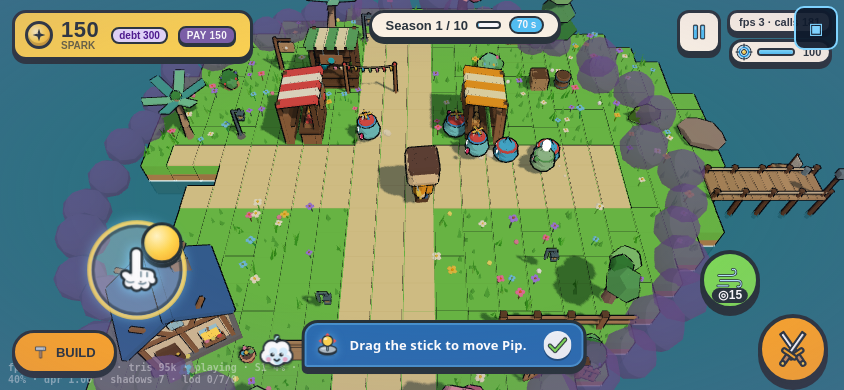
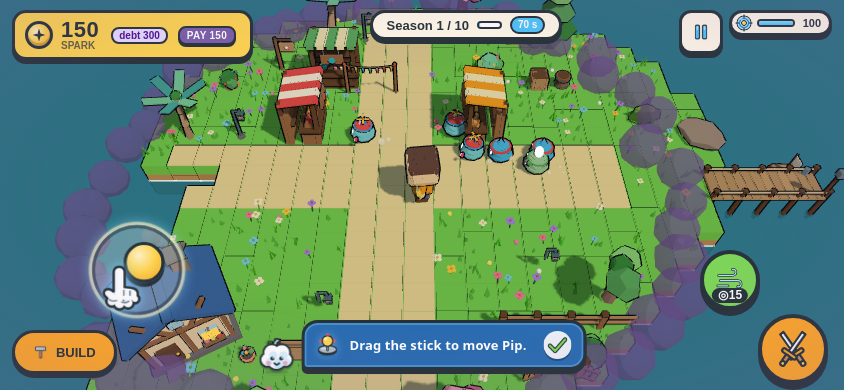
WIP ?: S69: short-phone (301-340px tall) build tray CSS keeps top HUD visible

diff --git a/LUMEN/game/ui/build.css b/LUMEN/game/ui/build.css
@@ -123,6 +123,9 @@ body.is-touch .ll-build-hint { font-size: 12px; color: #333; font-weight: 800; }
 /* S63-D2: an owned card already says "yours" in its cost chip; the green count badge sat on top of it and cut the word ("yours" -> "yours✓"). Hide the badge when the count is 1 (one-per-type cards). */
 .ll-card.owned .ll-card-count { display: none; }
 
+/* S69: 568x320-class phones (301-340 px tall): the tray reached the top HUD row and hid the PAY button. A shorter card grid keeps the tray below the Spark pill. */
+@media (max-height: 340px) and (min-height: 301px) { body.is-touch .ll-build-grid { max-height: 96px; } body.is-touch .ll-build-tray { padding: 6px; } body.is-touch .ll-build-tabs { margin-bottom: 4px; } }
+
 /* S65-B: very short phones (360x240): the tray was taller than the screen (top = -65 px). The card grid scrolls inside a shorter box instead. */
 @media (max-height: 300px) { .ll-build-grid { max-height: 88px; } .ll-build-tray { padding: 6px; } .ll-build-tabs { margin-bottom: 4px; } }
 
